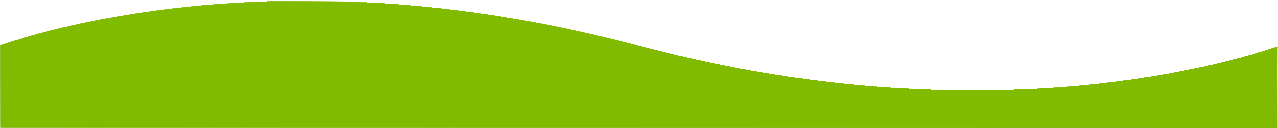
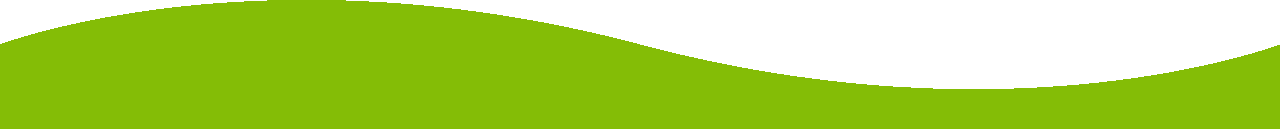
wavesfixed

diff --git a/src/components/main/waves/waves.css b/src/components/main/waves/waves.css
@@ -26,21 +26,21 @@ section .wave.wave2 {
   z-index: 999px;
   opacity: 0.5;
   animation-delay: -5s;
-  bottom: 10px;
+  bottom: 0px;
 }
 section .wave.wave3 {
   animation: animate 30s linear infinite;
   z-index: 998px;
   opacity: 0.2;
   animation-delay: -5s;
-  bottom: 10px;
+  bottom: 0px;
 }
 section .wave.wave4 {
   animation: animate2 4s linear infinite;
   z-index: 997px;
   opacity: 0.7;
   animation-delay: -5s;
-  height: 90px;
+  height: 80px;
   bottom: 0px;
 }
 @keyframes animate {
